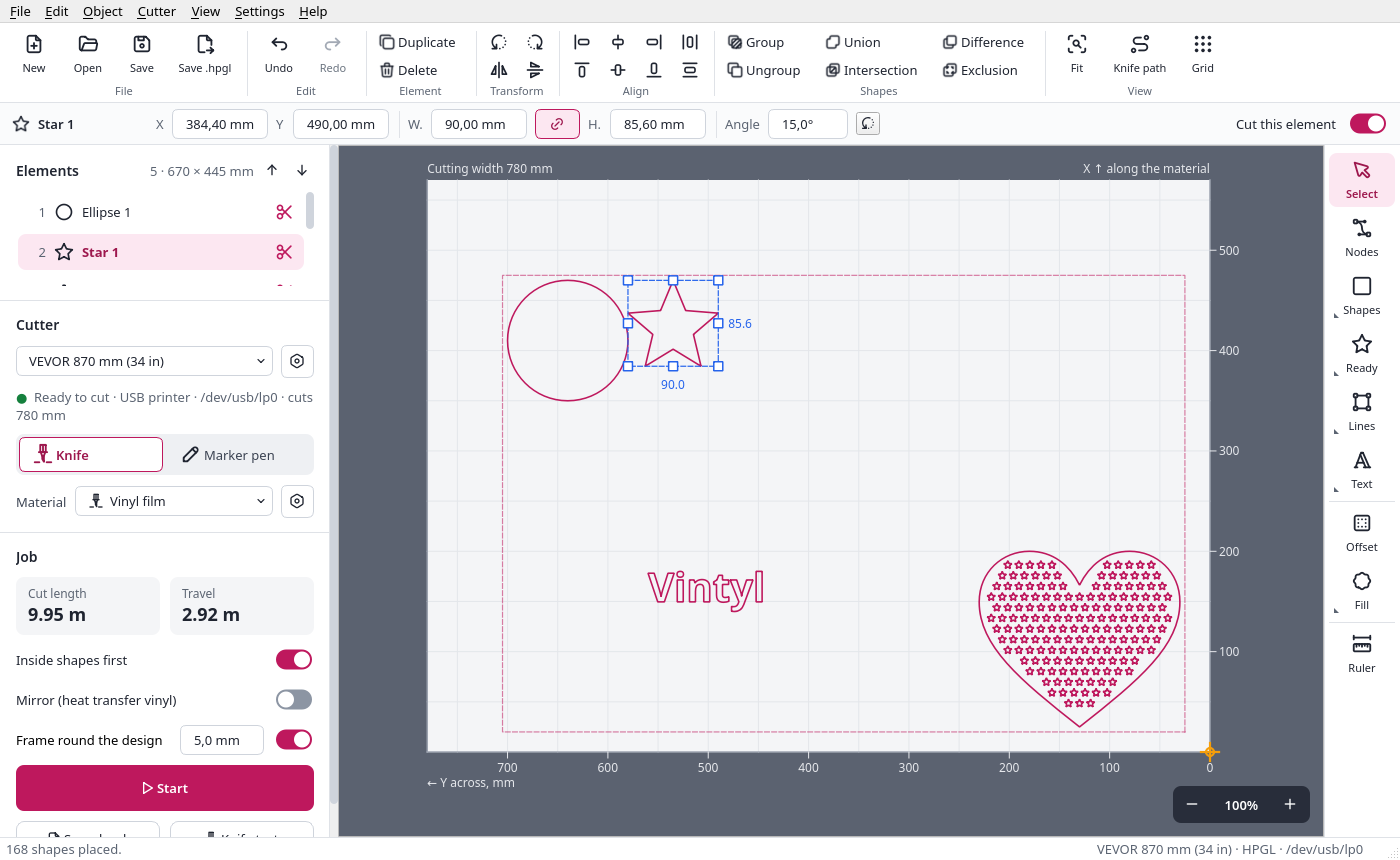
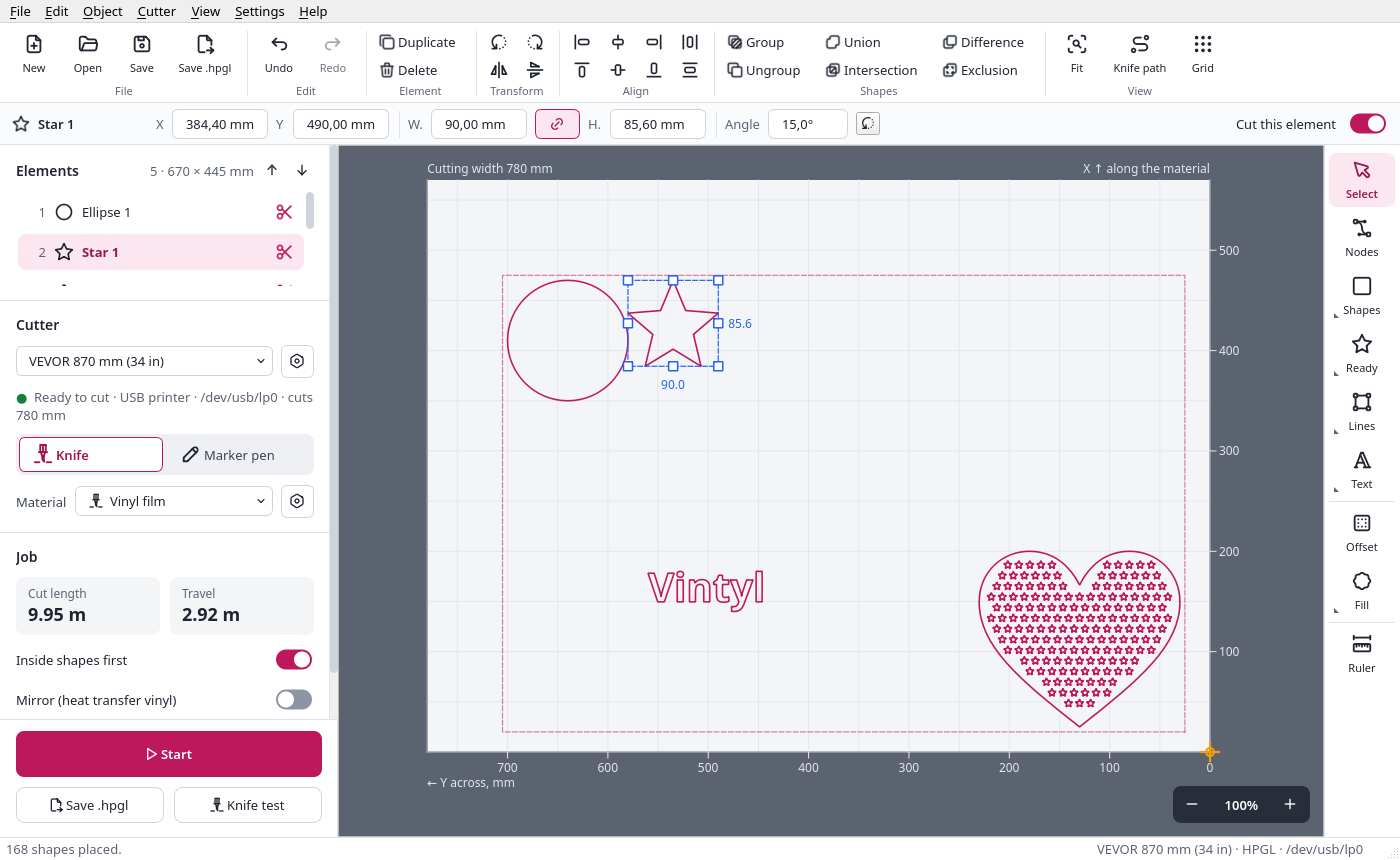
Start, Save .hpgl and the knife test pinned under the left panel
They are no longer in the scrolling panel, so they are always in sight,
also on a low screen; the README's screenshots made again.

Changed region(s): [[0.0, 0.786, 0.2457, 0.9674]]

diff --git a/src/vintyl/gui/main_window.py b/src/vintyl/gui/main_window.py
@@ -169,9 +169,16 @@ class MainWindow(QMainWindow):
         middle.setContentsMargins(0, 0, 0, 0)
         middle.setSpacing(0)
         # the left panel scrolls when the window is too low for it, instead of
-        # squeezing its rows into each other
+        # squeezing its rows into each other; Start and the rest stay under it
+        left = QWidget()
+        left_col = QVBoxLayout(left)
+        left_col.setContentsMargins(0, 0, 0, 0)
+        left_col.setSpacing(0)
         self.left_scroll = _SideScroll(self._make_left_panel())
-        middle.addWidget(self.left_scroll)
+        left_col.addWidget(self.left_scroll, 1)
+        self.send_footer.setFixedWidth(self.left_scroll.width())
+        left_col.addWidget(self.send_footer)
+        middle.addWidget(left)
         middle.addWidget(self.view, 1)
         middle.addWidget(self.tool_panel)
         outer.addLayout(middle, 1)
@@ -1344,7 +1351,15 @@ class MainWindow(QMainWindow):
         self.frame_row = QWidget()
         self.frame_row.setLayout(frame_row)
         lay.addWidget(self.frame_row)
-        # sending: what is sent, how much of it; Stop in the place of Start
+        # sending: what is sent, how much of it; Stop in the place of Start.
+        # Pinned under the scrolling panel (the owner, 17.11.2026): Start, Save
+        # and the knife test are always in sight, also on a low screen
+        self.send_footer = QWidget()
+        self.send_footer.setObjectName("send_footer")
+        self.send_footer.setAttribute(Qt.WA_StyledBackground, True)
+        lay = QVBoxLayout(self.send_footer)
+        lay.setContentsMargins(16, 12, 16, 14)
+        lay.setSpacing(10)
         self.send_label = QLabel()
         self.send_label.setObjectName("field_label")
         self.progress = QProgressBar()

diff --git a/tests/test_gui.py b/tests/test_gui.py
@@ -1778,3 +1778,16 @@ def test_the_window_fits_a_1366_screen_in_every_state_of_the_bar(win):
     assert fits() and not win.opt_path_flip.isHidden()
     win.set_tool("nodes")
     assert fits() and not win.node_hint.isHidden()
+
+
+def test_start_save_and_the_knife_test_are_pinned_under_the_panel(win):
+    """They are not in the scrolling panel: always in sight, also on a low screen."""
+    from PySide6.QtTest import QTest
+    win.resize(1366, 600)
+    win.show()
+    QTest.qWait(30)
+    panel = win.left_scroll.widget()
+    for b in (win.btn_start, win.btn_save, win.btn_test, win.progress):
+        assert not panel.isAncestorOf(b) and win.send_footer.isAncestorOf(b)
+    bottom = win.send_footer.mapTo(win, win.send_footer.rect().bottomLeft()).y()
+    assert win.btn_start.isVisible() and bottom <= win.height()

diff --git a/src/vintyl/gui/theme.py b/src/vintyl/gui/theme.py
@@ -136,6 +136,7 @@ QWidget#segmented QToolButton:checked { background: $panel; border: 1px solid $a
     font-weight: 600; }
 QWidget#segmented QToolButton:focus { border: 1px dashed $accent; }
 QWidget#job_panel { background: $panel; border-right: 1px solid $border; }
+QWidget#send_footer { background: $panel; border-top: 1px solid $border; border-right: 1px solid $border; }
 QFrame#panel_line { color: $border; max-height: 1px; border: 0; background: $border; }
 QLabel#section_title { font-weight: 600; font-size: 14px; color: $ink; }
 QLabel#cutter_state { color: $muted; }
